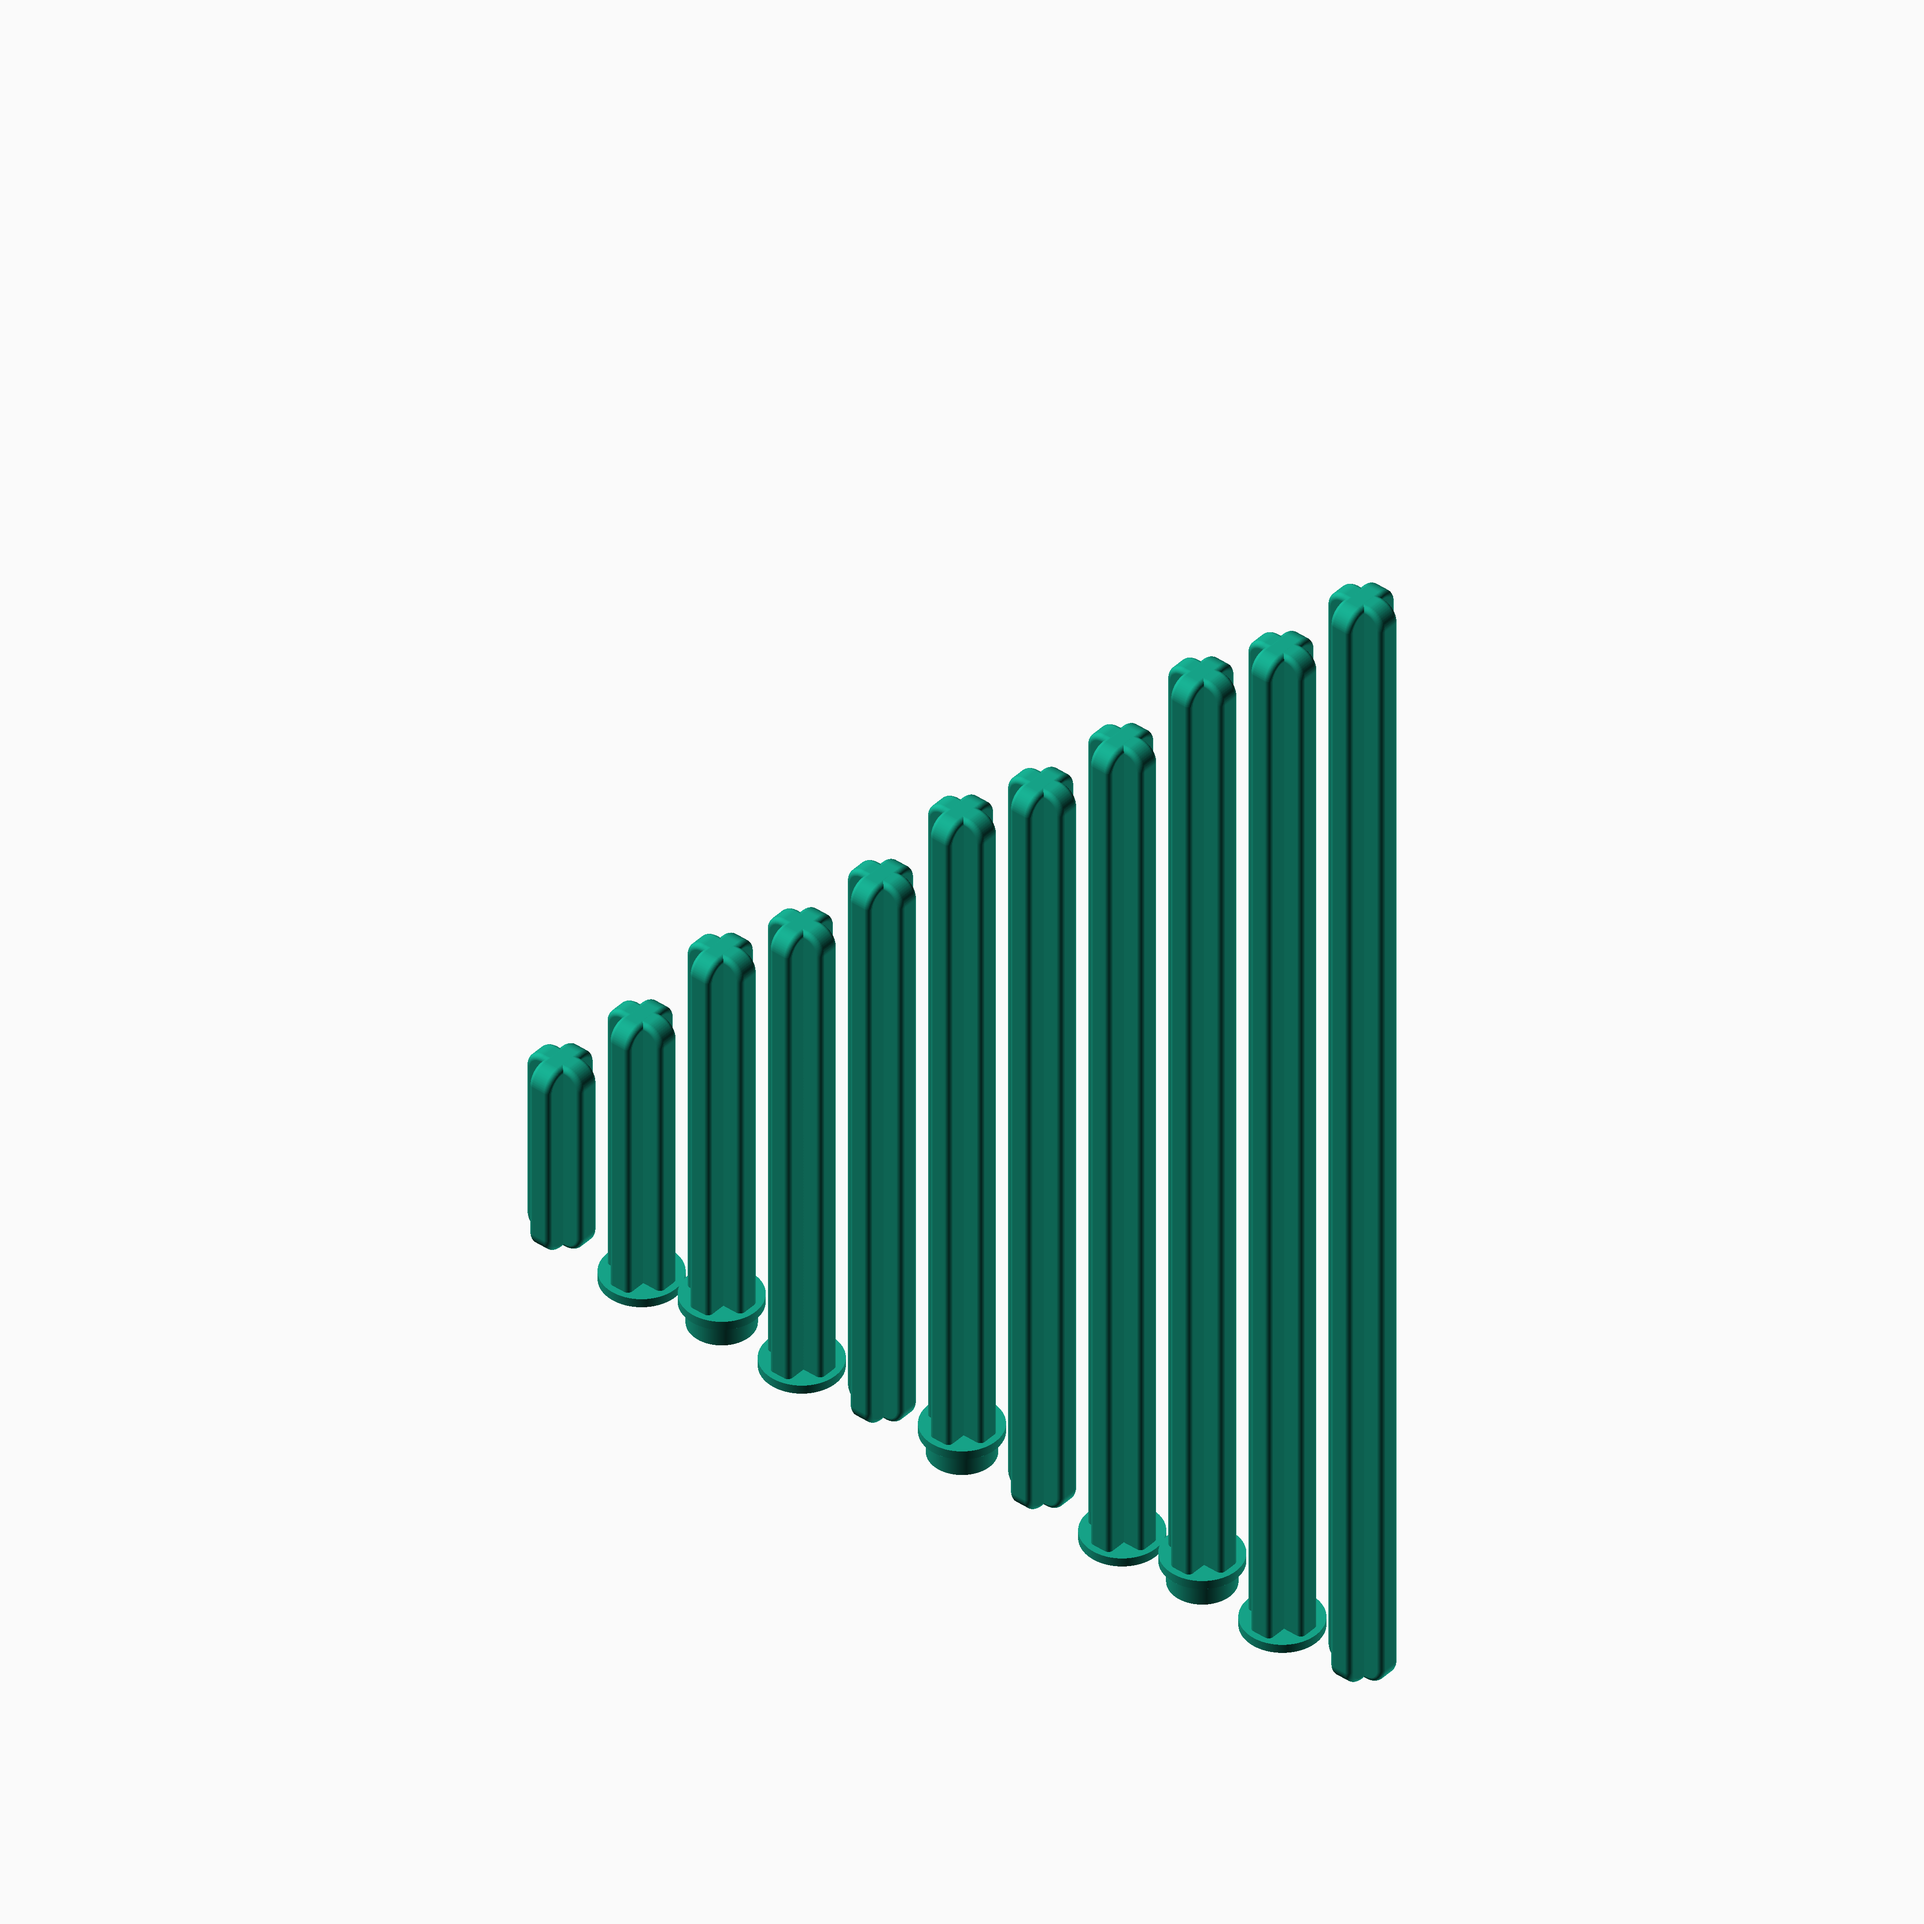
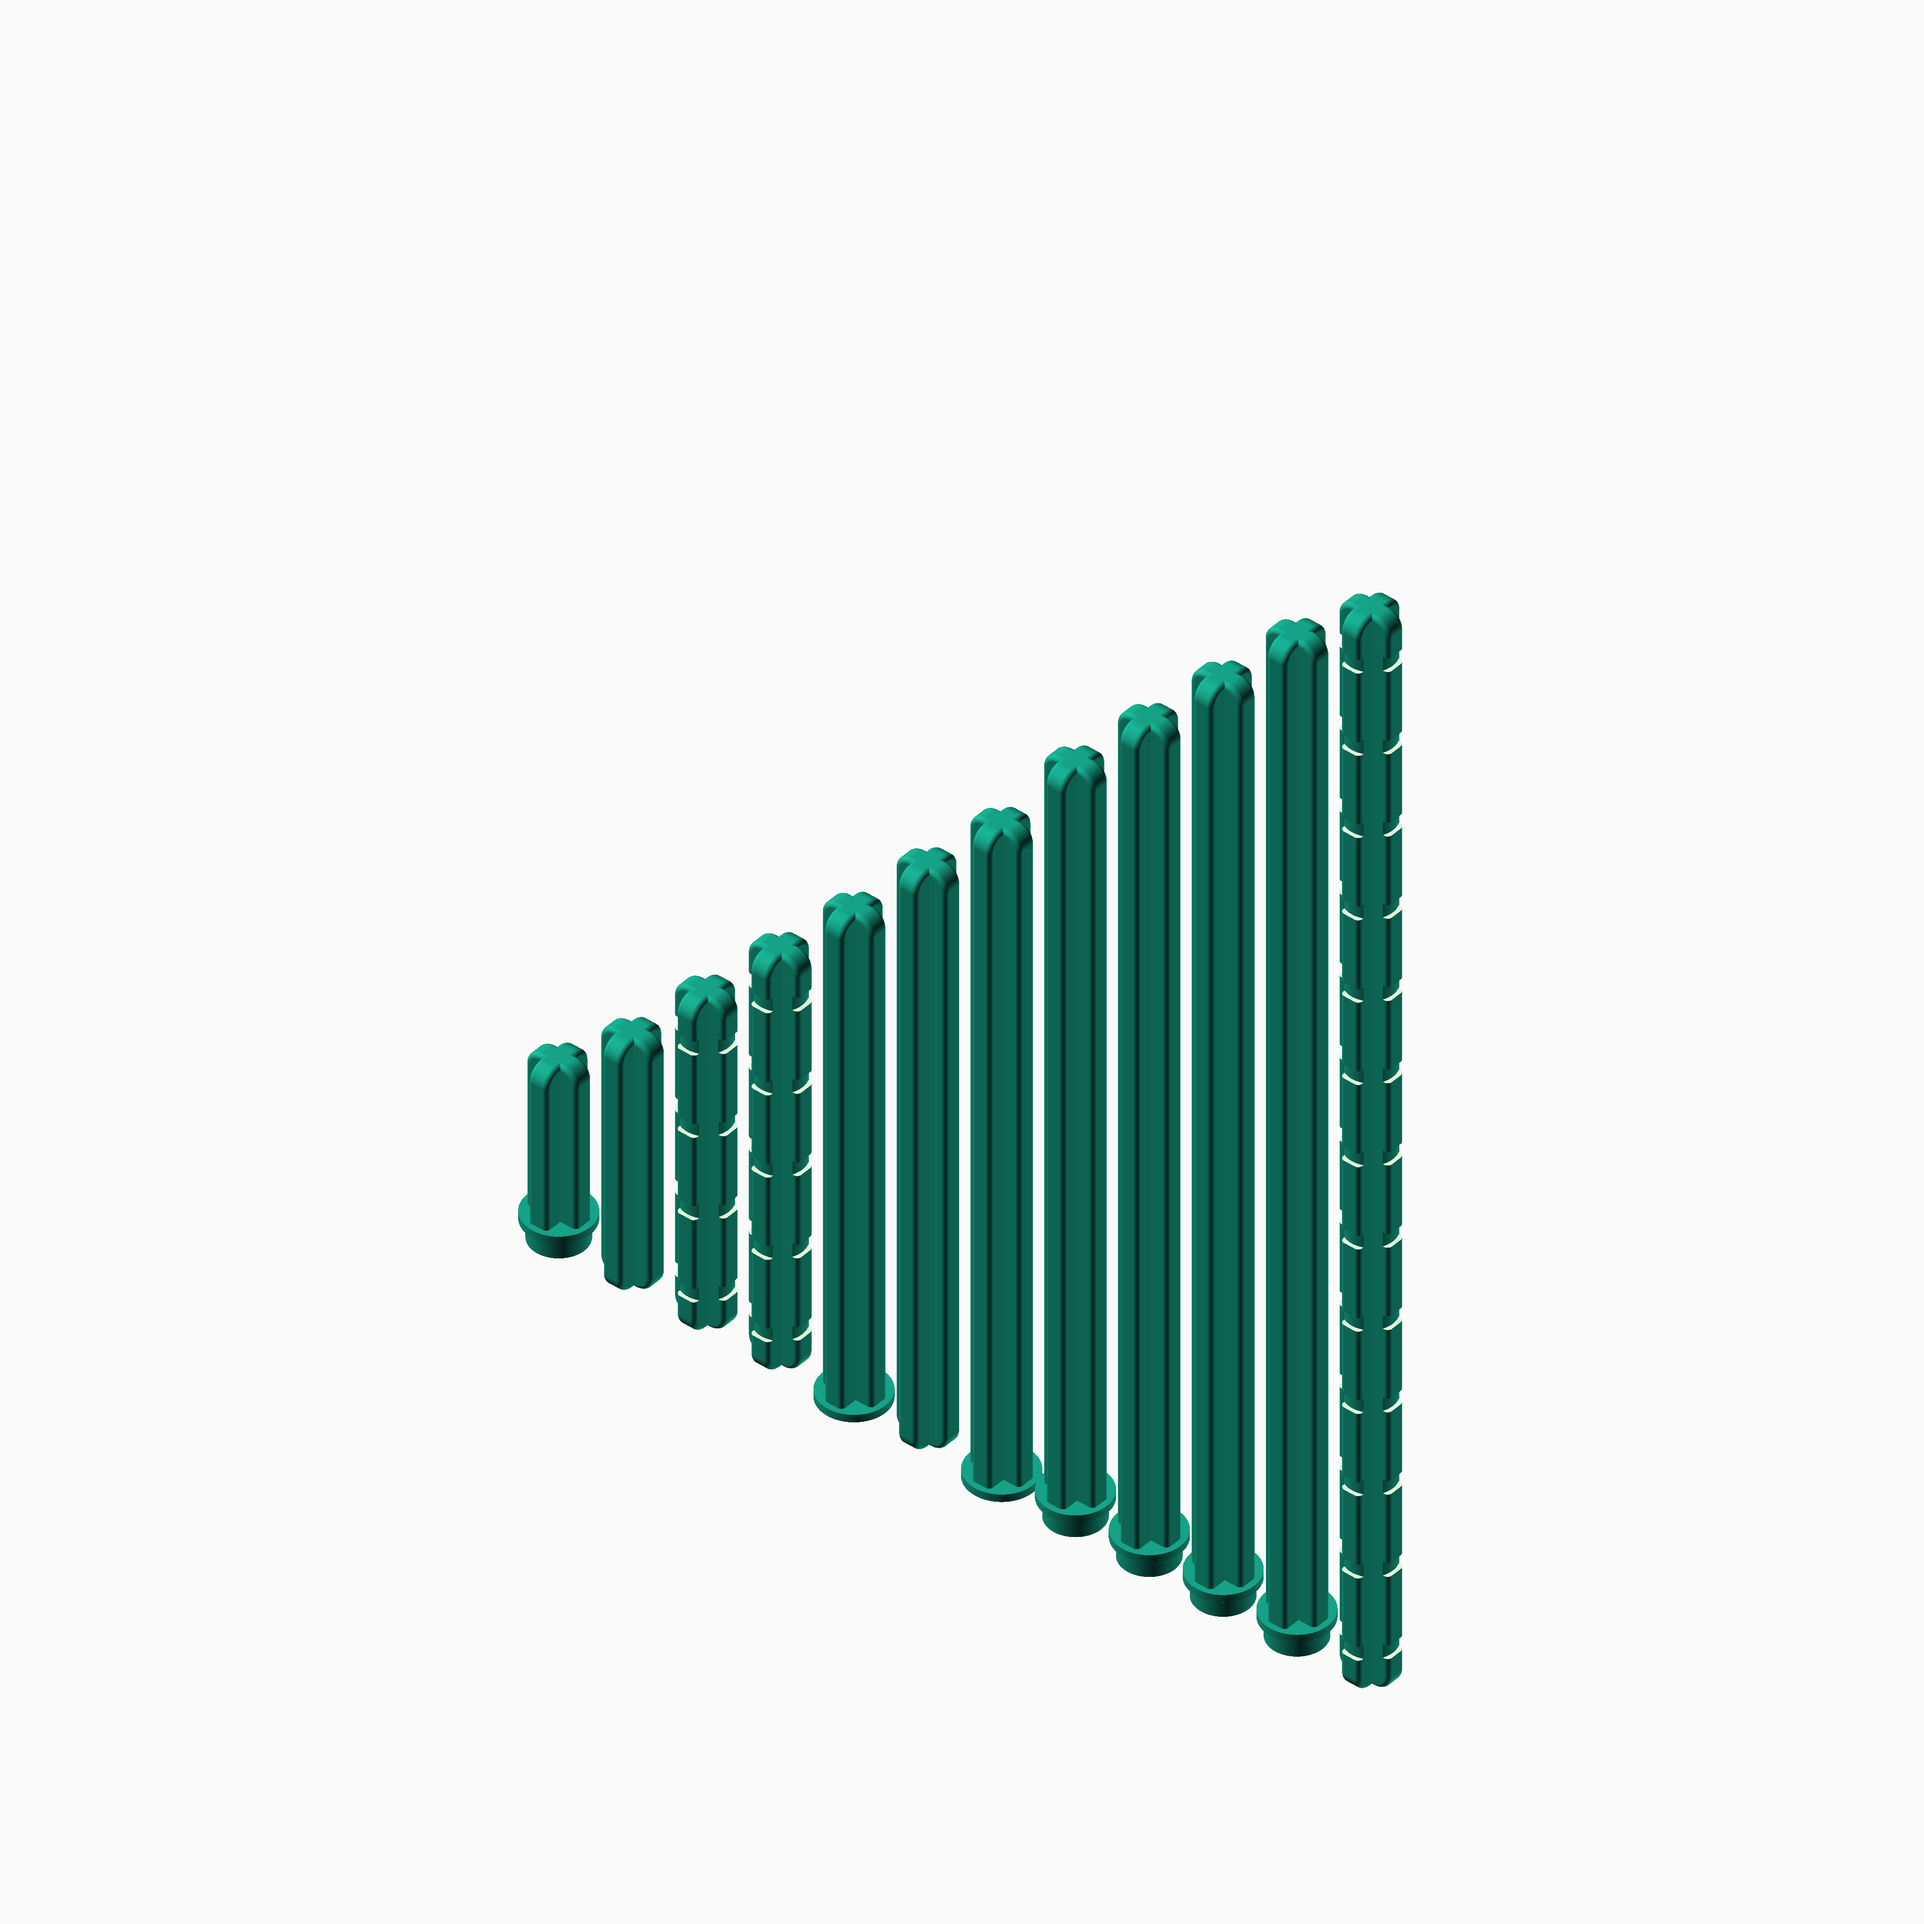
Add notch support

Changed region(s): [[0.25, 0.2812, 0.75, 0.875]]

diff --git a/README.md b/README.md
@@ -60,6 +60,7 @@ The origin is centered at the bottom of the axle.
 - `part #15462`: technic_axle( length = 5, stop = true );
 - `part #23948`: technic_axle( length = 11 );
 - `part #24316`: technic_axle( length = 3, stop = true );
+- `part #32062`: technic_axle( length = 2, notch = true );
 - `part #32073`: technic_axle( length = 5 );
 - `part #44294`: technic_axle( length = 7 );
 - `part #50450`: technic_axle( length = 32 );
@@ -73,6 +74,7 @@ The origin is centered at the bottom of the axle.
 - `length`: *float*  The length of the axle, in Technic units.
 - `stop`: *bool* Whether there is a stop at the end.
 - `stud`: *bool* Whether there is a stud at the end.
+- `notch`: *bool* Wether the axle is notched
 
 **Returns:**
 
